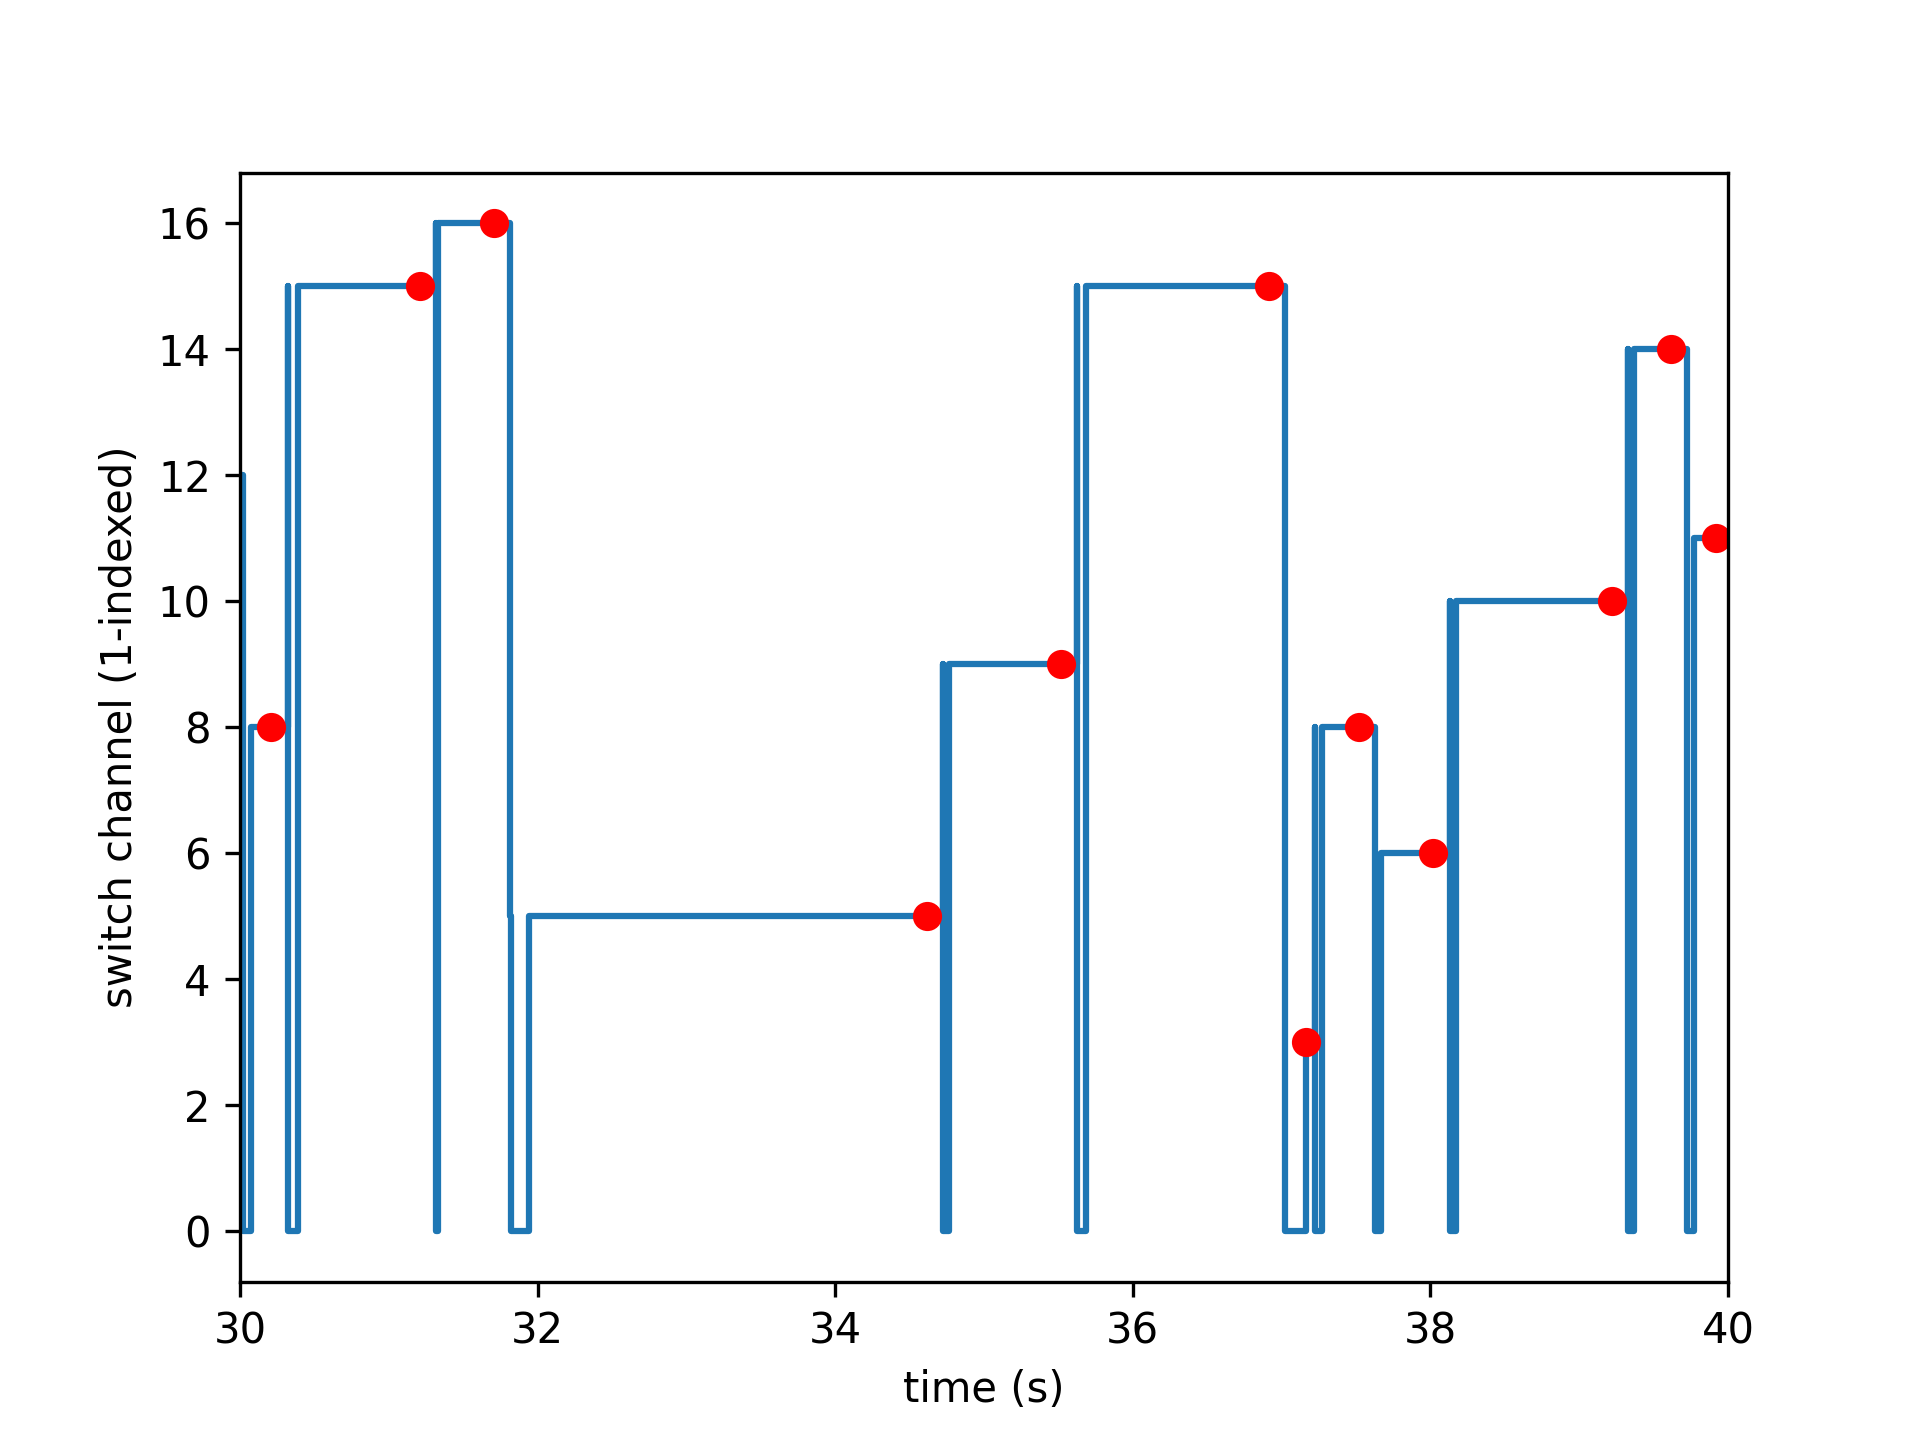
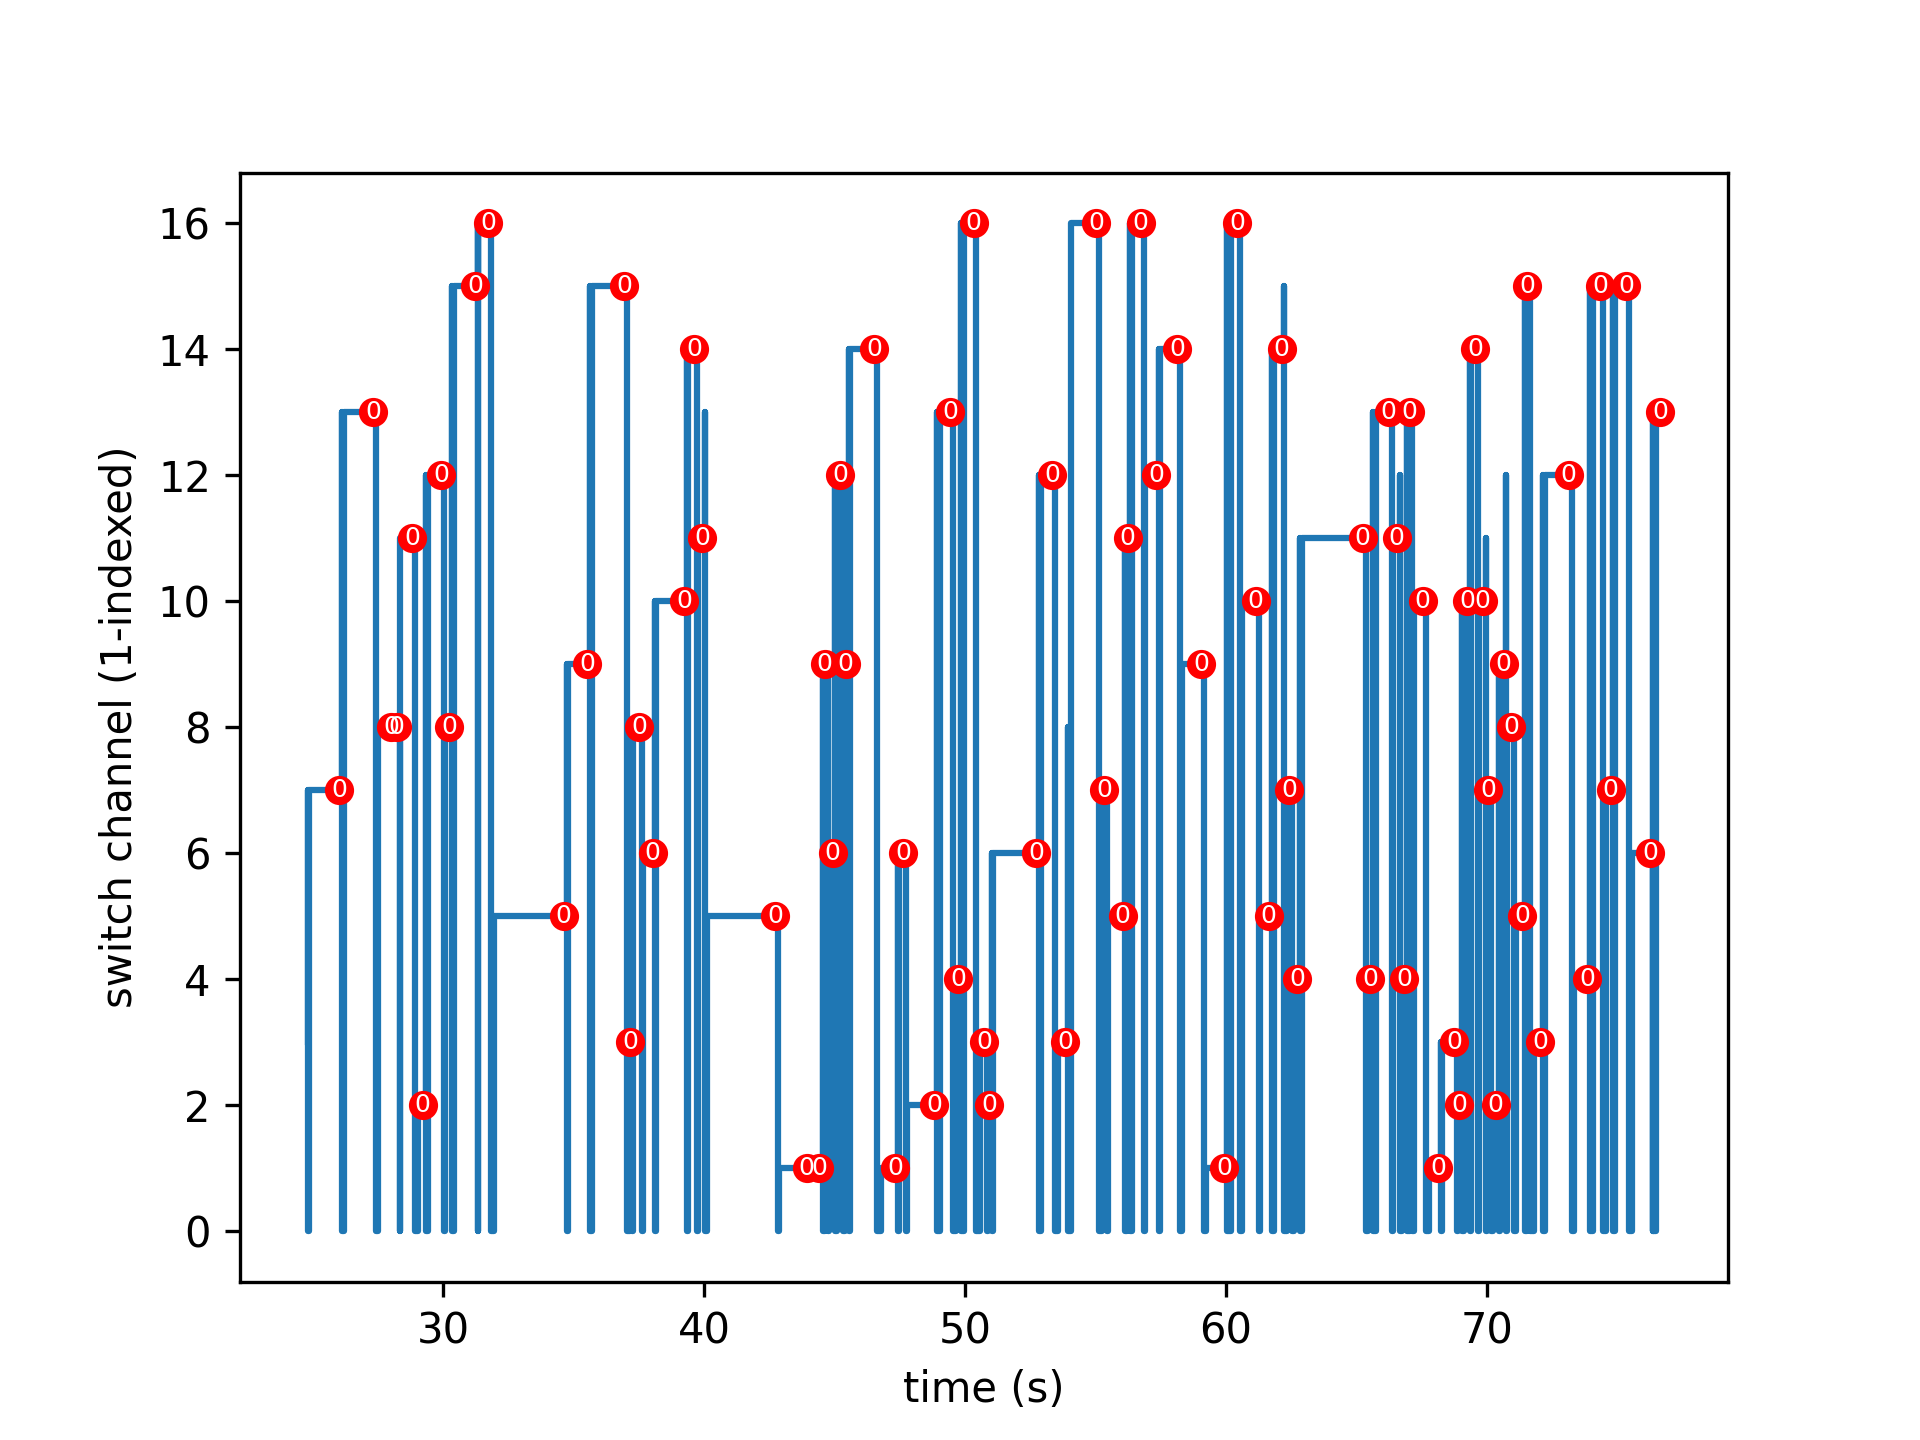
update debug

diff --git a/aopy/preproc/bmi3d.py b/aopy/preproc/bmi3d.py
@@ -548,37 +548,6 @@ def get_peak_power_mW(exp_metadata):
         peak_power_mW = 25  
 
     return peak_power_mW
-
-def get_value_at_timestamp(timestamps, values, timestamp):
-    """
-    Get the value at the given timestamp from the corresponding timestamps and values arrays.
-
-    Args:
-        timestamps (nt,): timestamps
-        values (nt,): corresponding values
-        timestamp (float): timestamp to search for
-
-    Returns:
-        The value at the given timestamp, or None if the timestamp is not found.
-    """
-    if len(timestamps) == 0:
-        return None
-    
-    if len(timestamps) != len(values):
-        raise ValueError("Timestamps and values must have the same length")
-
-    # Find the last set timestamp before the given timestamp
-    idx = np.searchsorted(timestamps, timestamp, side='right') - 1
-
-    # If the timestamp is between the set and unset timestamps, return the corresponding value
-    if idx < 0:
-        return None
-    elif len(timestamps) > idx + 1 and timestamps[idx+1] < timestamp:
-        return None
-    elif values[idx] == 0:
-        return None
-    else:
-        return values[idx]
     
 def _get_laser_trial_times_old_data(exp_data, exp_metadata, laser_sensor='qwalor_sensor', 
                                     calibration_file='qwalor_447nm_ch2.yaml', debug=False, **kwargs):
@@ -796,17 +765,29 @@ def get_switched_stimulation_sites(preproc_dir, subject, te_id, date, trigger_ti
     optical_switch = exp_data['optical_switch']
     optical_switch_timestamps = optical_switch['timestamp']
     optical_switch_channels = optical_switch['channel']
-    switch_channels = [
-        get_value_at_timestamp(optical_switch_timestamps, optical_switch_channels, t) 
-        for t in trigger_timestamps
-    ] # 1-indexed; None if no channel was selected
+    
+    switch_channels = np.zeros((len(trigger_timestamps),), dtype='float')
+    for i, t in enumerate(trigger_timestamps):
 
-    stimulation_site = [exp_metadata['stimulation_site'][ch-1] if ch is not None else None for ch in switch_channels]
+        # Find the most recent switch time before the trigger time
+        idx = np.searchsorted(optical_switch_timestamps, t, side='right') - 1
+        if idx < 0: # before the first switch
+            switch_channels[idx] = optical_switch_channels[0]
+        elif len(optical_switch_timestamps) > idx + 1 and optical_switch_timestamps[idx+1] < t:
+            switch_channels[idx] = 0
+        else:
+            switch_channels[i] = optical_switch_channels[idx]
+    switch_channels[switch_channels <= 0] = np.nan # no site selected
+    switch_channels -= 1 # 1-indexed to 0-indexed
+
+    stimulation_site = [exp_metadata['stimulation_site'][int(ch)] if not np.isnan(ch) else None for ch in switch_channels]
 
     if debug:
         plt.figure()
         plt.step(optical_switch_timestamps, optical_switch_channels, where='post')
-        plt.plot(trigger_timestamps, switch_channels, 'ro')
+        plt.plot(trigger_timestamps, switch_channels + 1, 'ro')
+        for i, txt in enumerate(stimulation_site):
+            plt.text(trigger_timestamps[i], switch_channels[i] + 1, txt, fontsize=6, ha='center', va='center', color='w')
         plt.xlabel('time (s)')
         plt.ylabel('switch channel (1-indexed)')
 

diff --git a/tests/test_preproc.py b/tests/test_preproc.py
@@ -1074,38 +1074,6 @@ class TestPrepareExperiment(unittest.TestCase):
         self.assertIn('exp_data', contents)
         self.assertIn('mocap_data', contents)
 
-    def test_get_value_at_timestamp(self):
-        optical_switch_timestamps = np.array([0, 1, 2, 3, 4, 5])
-        optical_switch_channels = np.array([1, 0, 2, 0, 3, 0])
-
-        # Test a timestamp before the first switch
-        channel = get_value_at_timestamp(optical_switch_timestamps, optical_switch_channels, -1)
-        self.assertIsNone(channel)
-
-        # Test a timestamp after the last switch
-        channel = get_value_at_timestamp(optical_switch_timestamps, optical_switch_channels, 6)
-        self.assertIsNone(channel)
-
-        # Test a timestamp exactly on a switch
-        channel = get_value_at_timestamp(optical_switch_timestamps, optical_switch_channels, 2)
-        self.assertEqual(channel, 2)
-
-        # Test a timestamp between two switches
-        channel = get_value_at_timestamp(optical_switch_timestamps, optical_switch_channels, 2.5)
-        self.assertEqual(channel, 2)
-
-        # Check if the channels start at 0
-        optical_switch_timestamps = np.array([0, 1, 2, 3, 4, 5])
-        optical_switch_channels = np.array([0, 1, 0, 2, 0, 3])
-        channel = get_value_at_timestamp(optical_switch_timestamps, optical_switch_channels, 3.5)
-        self.assertEqual(channel, 2)
-
-        # Check if the channels end with nonzero
-        optical_switch_timestamps = np.array([0, 1, 2, 3, 4, 5])
-        optical_switch_channels = np.array([0, 1, 0, 2, 0, 3])
-        channel = get_value_at_timestamp(optical_switch_timestamps, optical_switch_channels, 5.5)
-        self.assertEqual(channel, 3)
-
     def test_get_switched_stimulation_sites(self):
         subject = 'test'
         te_id = 15494
@@ -1122,8 +1090,9 @@ class TestPrepareExperiment(unittest.TestCase):
             exp_data, exp_metadata, laser_trigger='qwalor_trigger', laser_sensor='qwalor_sensor'
         )
         sites = get_switched_stimulation_sites(data_dir, subject, te_id, date, times, debug=True)
-        plt.xlim(30,40)
         visualization.savefig(docs_dir, 'switched_stimulation_sites.png', transparent=False)
+
+        np.testing.assert_allclose(sites, 0)
 
     def test_get_laser_trial_times(self):
         time_before = 0.05
